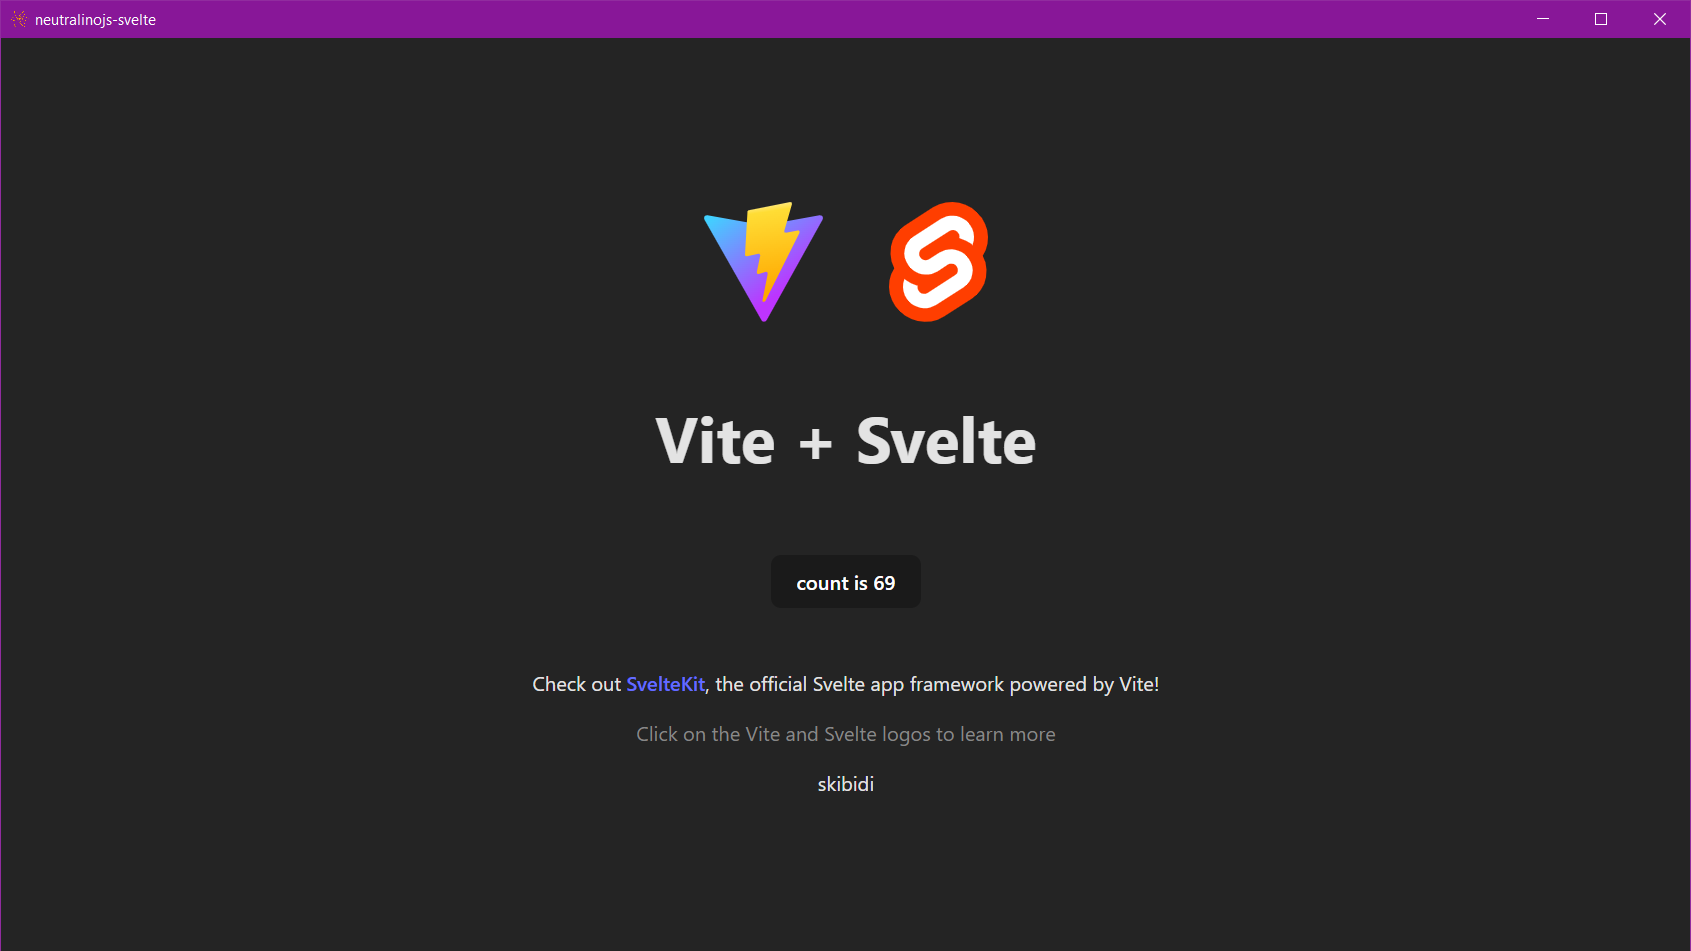
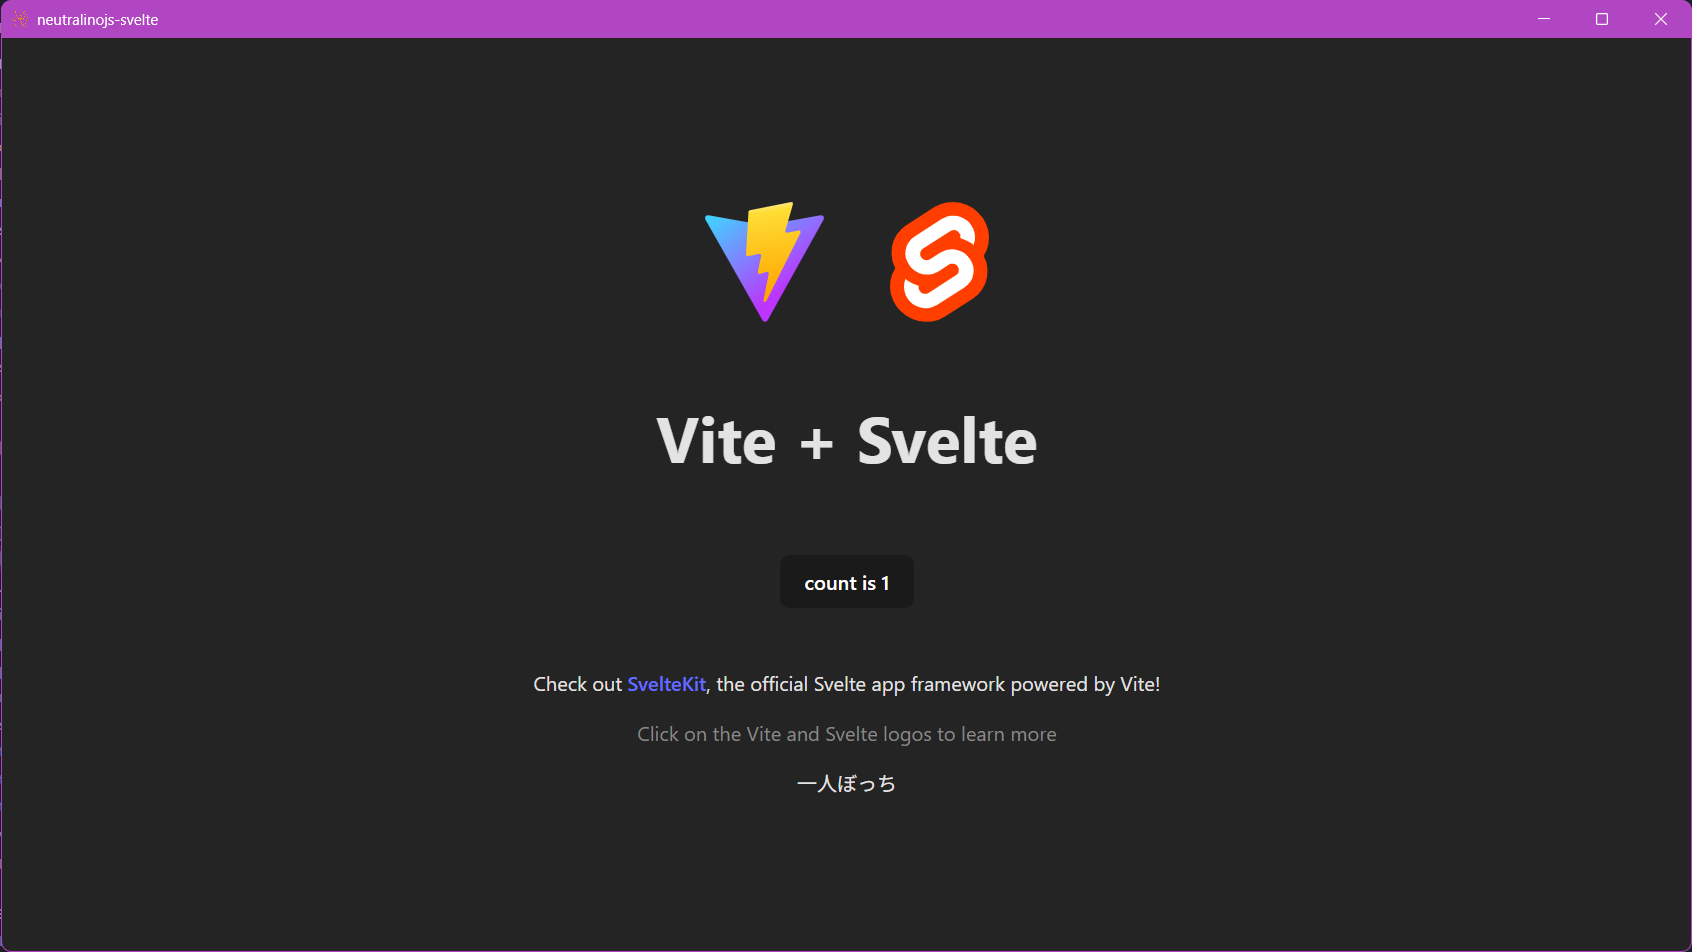
Update with neu run fix and window import fix

diff --git a/svelte-app/src/App.svelte b/svelte-app/src/App.svelte
@@ -1,7 +1,7 @@
 <script lang="ts">
-  import svelteLogo from './assets/svelte.svg'
-  import viteLogo from '/vite.svg'
-  import Counter from './lib/Counter.svelte'
+  import svelteLogo from "./assets/svelte.svg";
+  import viteLogo from "/vite.svg";
+  import Counter from "./lib/Counter.svelte";
 </script>
 
 <main>
@@ -20,14 +20,16 @@
   </div>
 
   <p>
-    Check out <a href="https://github.com/sveltejs/kit#readme" target="_blank" rel="noreferrer">SvelteKit</a>, the official Svelte app framework powered by Vite!
+    Check out <a
+      href="https://github.com/sveltejs/kit#readme"
+      target="_blank"
+      rel="noreferrer">SvelteKit</a
+    >, the official Svelte app framework powered by Vite!
   </p>
 
-  <p class="read-the-docs">
-    Click on the Vite and Svelte logos to learn more
-  </p>
+  <p class="read-the-docs">Click on the Vite and Svelte logos to learn more</p>
 
-  <p>skibidi</p>
+  <p>一人ぼっち</p>
 </main>
 
 <style>

diff --git a/svelte-app/src/windowing.ts b/svelte-app/src/windowing.ts
@@ -1,22 +1,22 @@
-import Neutralino from "@neutralinojs/lib";
+import { app, debug, events, window } from "@neutralinojs/lib";
 
-Neutralino.events
+events
   .on("windowMaximize", () => {
-    Neutralino.window.maximize();
+    window.maximize();
   })
   .catch(console.error);
 
-Neutralino.events
+events
   .on("windowMinimize", () => {
-    Neutralino.window.minimize();
+    window.minimize();
   })
   .catch(console.error);
 
-Neutralino.events
+events
   .on("windowClose", () => {
-    Neutralino.app.exit(0).catch(console.error);
+    app.exit(0).catch(console.error);
   })
   .catch(console.error)
   .then(() => {
-    Neutralino.debug.log("Attached window closer").catch(console.error);
+    debug.log("Attached window closer").catch(console.error);
   });

diff --git a/docs/how-to-create-template.md b/docs/how-to-create-template.md
@@ -1,4 +1,4 @@
-# How to create the Neutralinojs Svelte template
+# How to create the Neutralinojs Svelte template 🦧
 
 This mostly serves as a guide for me, but it can be helpful for others too.
 
@@ -77,13 +77,17 @@ This should show up:
 
 ![The initial app provided by `neu run`.](neu-run.png)
 
-## WARNING: DO NOT PRESS THE MINIMISE OR MAXIMISE BUTTON FOR NOW.
+## DO NOT PRESS THE MINIMISE OR MAXIMISE BUTTON YET
 
-Neutralinojs has a bug in which **the application will suddenly disappear upon pressing either minimise or maximise**, forcing you to **redoing everything from beginning** (yes i'm not kidding).
+Neutralinojs has a bug in which **the application will suddenly disappear upon pressing either minimise or maximise**, forcing you to **redo everything from beginning** (yes i'm not kidding).
 
-The way to fix it is to attach window events, which will be discussed in the part afterwards.
+The way to fix it is to **attach window events**, which will be discussed in the part afterwards.
 
-## Adding the neutralinojs API
+## Adding the Neutralinojs API
+
+> Note: This section differs from [Neutralinojs' docs](https://neutralino.js.org/docs/getting-started/using-frontend-libraries/#initializing-native-api-with-neutralinojslib), where it asks to inject a code snippet inside `./public/index.html`. That is valid, this way is also valid. Up to you 😁
+
+### Steps
 
 1. Inside `./svelte-app/`, install `@neutralinojs/lib` from npm.
 
@@ -131,39 +135,43 @@ To test the API, let's fix the minimise-maximise problem.
   "nativeAllowList": ["app.*", "events.*", "window.*", "debug.*"],
 ```
 
-> NOTE: This allows for all functions under a namespace. You can be more specific and only allow certain functions e.g. `"window.maximize"`
+> NOTE: This allows for all functions under a namespace i.e. function category. You can be more specific and only allow certain functions e.g. `"window.maximize"`
 
 2. Inside anywhere in `./svelte-app/` (preferably in `svelte-app/src`), create a Typescript file e.g. `windowing.ts`.
 
-3. Add these lines inside `windowing.ts` (thanks Ori! 🙇🏽♂):
+3. Add this code inside `windowing.ts` (thanks Ori! 🙇🏽♂):
+
+> NOTE: If you also use the native JS' `window` functions for some reason, you **must** import Neutralinojs' `window` with an alias. e.g. `import { window as neuWindow } from "@neutralinojs/lib";`
 
 ```ts
-import Neutralino from "@neutralinojs/lib"; // cannot import specifics as `Neutralino.window` will clash with `window` property
+import { app, debug, events, window } from "@neutralinojs/lib";
 
-// check for maximise, minimise, and window close event
-Neutralino.events
+// check for maximise event
+events
   .on("windowMaximize", () => {
-    Neutralino.window.maximize();
+    window.maximize();
   })
   .catch(console.error);
 
-Neutralino.events
+// check for minimise event
+events
   .on("windowMinimize", () => {
-    Neutralino.window.minimize();
+    window.minimize();
   })
   .catch(console.error);
 
-Neutralino.events
+// check for window close event (just in case)
+events
   .on("windowClose", () => {
-    Neutralino.app.exit(0).catch(console.error);
+    app.exit(0).catch(console.error);
   })
   .catch(console.error)
   .then(() => {
-    Neutralino.debug.log("Attached window closer").catch(console.error);
+    debug.log("Attached window closer").catch(console.error);
   });
 ```
 
-This ensures that all three buttons (maximise, minimise, close) are handled properly (and also allow you to customise them too).
+This ensures that all three buttons (maximise, minimise, close) are handled properly (and also allow you to customise their actions too).
 
 4. In `./svelte-app/src/main.ts`, add this `import` line:
 
@@ -186,7 +194,7 @@ neu run
 
 ## Configuring hot module replacement (HMR) feature
 
-Those four commands above are a doozy, yeah? `cd` this <sub>cdeez nuts</sub> , `build` that. Let's enable the HMR feature so you only need to run one command and make the app refresh with every change you make.
+Those four commands above are a doozy, yeah? `cd` this, `build` that, `cdeez nuts`... so let's enable the HMR feature so you only need to run one command and make the app refresh with every change you make.
 
 1. Inside `./svelte-app/`, make a file called `run-dev.js` or anything similar.
 
@@ -205,7 +213,7 @@ console.log("Starting dev server...");
 execSync("npm run dev", { stdio: "inherit" });
 ```
 
-This will check if `./svelte-app/dist/` exists first. If no, it runs `npm run build` first, then `npm run dev`; else it skips straight to `npm run dev`.
+This will check if `./svelte-app/dist/` exists first, since it targets the builds there. If no, it runs `npm run build` first, then `npm run dev`; else it skips straight to `npm run dev`.
 
 3. In `neutralino.config.json`, under the `cli` property, add these:
 
@@ -224,10 +232,10 @@ This will check if `./svelte-app/dist/` exists first. If no, it runs `npm run bu
 }
 ```
 
-2. Instead of running the four commands above, **simply execute `neu run`**.
+2. Now, instead of running the usual four commands, **simply execute `neu run`**.
 
    The app will now open; now you can change anything inside `./svelte-app/src/App.svelte`, and the app will change immediately to reflect that 🎉
 
 3. To build the app, **execute `neu build`**. This will build two files inside `./dist`:
    - executables for Windows, macOS, and Linux
-   - `resources.neu`, which contains the app UI and functionality
+   - `resources.neu`, which contains the app UI and functionality. This **must** be bundled too.

diff --git a/README.md b/README.md
@@ -1,4 +1,4 @@
-# Neutralinojs Svelte template
+# Neutralinojs × Svelte 🦧
 
 This is a simple [Neutralinojs](https://neutralino.js.org/) template that uses [Svelte](https://svelte.dev) and [Vite](https://vite.dev/).
 
@@ -12,17 +12,25 @@ This is a simple [Neutralinojs](https://neutralino.js.org/) template that uses [
 
 ## How to use
 
-- Configure Neutralinojs behaviour in `neutralino.config.json`
+- Configure aspects of Neutralinojs in `neutralino.config.json` e.g. initial window size, namespace permissions
 - Add `.svelte` files inside `./neutralino-js/svelte-app/src`
 
 ## Useful commands
 
-| Command     | Description                                         |
-| ----------- | --------------------------------------------------- |
-| `neu run`   | Runs a preview of the app, along with the inspector |
-| `neu build` | Builds the app for Windows, macOS, and Linux        |
+| Command     | Description                                  |
+| ----------- | -------------------------------------------- |
+| `neu run`   | Runs a preview of the app                    |
+| `neu build` | Builds the app for Windows, macOS, and Linux |
+
+To run with special arguments e.g. launching with element inspector, do:
+
+- `neu run -- --<arguments>` on other terminals
+- `neu run -- -- --<arguments>` on Powershell (thanks popoklopapa! 🙇🏽♂)
+
+List of valid arguments can be found [here](https://neutralino.js.org/docs/cli/internal-cli-arguments).
 
 ## Special thanks
 
 - [Neutralinojs team](https://neutralino.js.org/docs/contributing/about-neutralinojs)
 - Ori for her amazing [Neutralino Svelte template](https://github.com/origamingwastaken/neutralino-svelte). Without it, I wouldn't be able to learn and make this
+- popoklopapa for the Powershell `neu run` fix, very much appreciated
